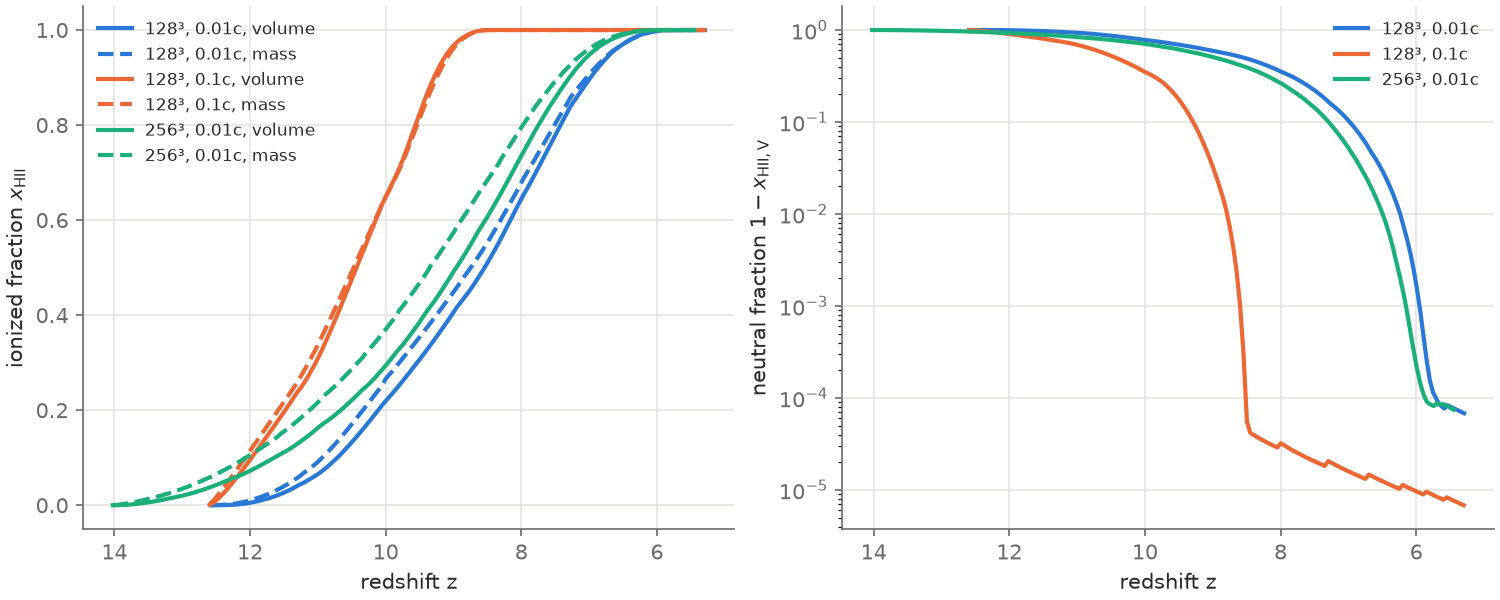
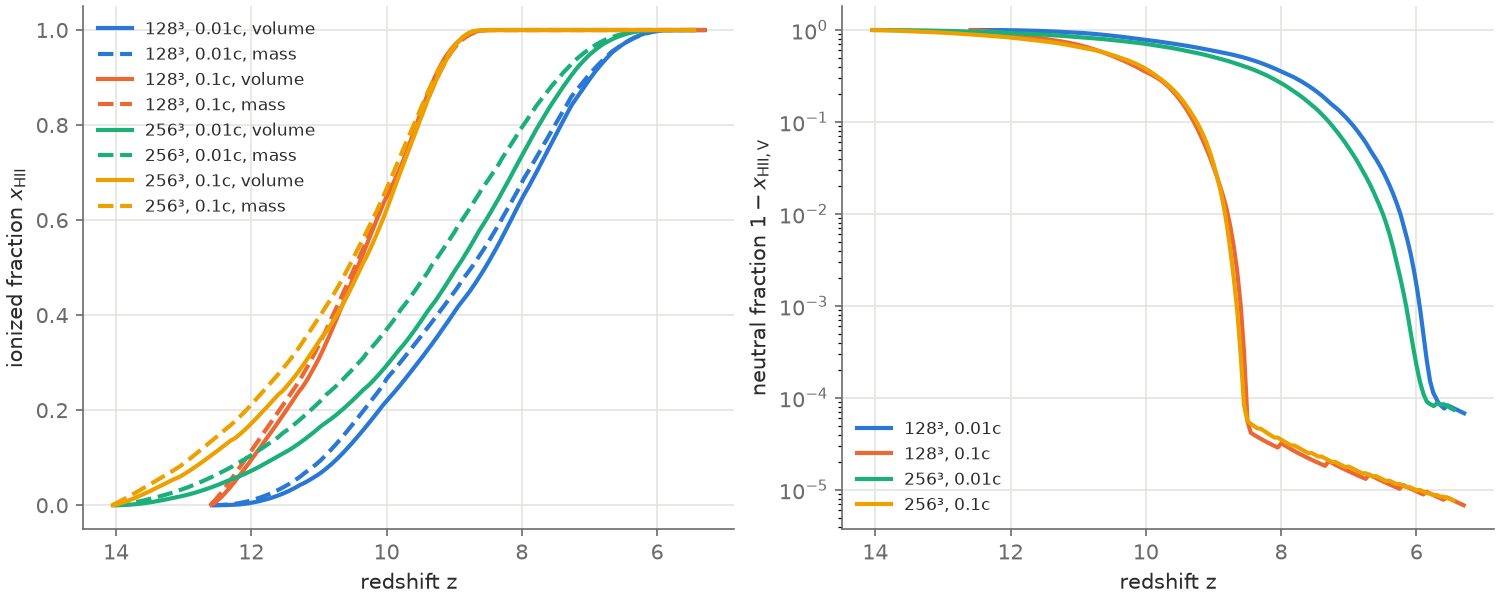
docs/cluster.md: run table, slow-light comparison (128^3 and 256^3, 0.01c vs 0.1c), recommendations; reionization-history figure

diff --git a/docs/cluster.md b/docs/cluster.md
@@ -319,8 +319,119 @@ adds `-ffp-contract=off -fno-fast-math`) in `build-znver4/`:
 
 ## 7. Runs
 
-RUNS_PLACEHOLDER
+All four runs: `tools/production/make_production.py` (10 Mpc/h, Ngas = Ndm = N,
+Zel'dovich ICs at z = 100, seed 7, FoF ≥ 20 particles, the current
+**global SFR source model**, nray_max_factor = 16, `legacy_rt =
+legacy_physics = 0`, `deterministic_parallel`, `rt_substep_carry`, movie
+frames of fHI and T every Δz = 0.05), to z = 5.27 (128³) or 5.43 (256³).
+The two c_reduced values of each N share the ICs. Wall time and peak RSS are
+from `/usr/bin/time -v` (sacct agrees to 1%). The pool guard never acted in
+any run.
+
+| run | node, threads | wall time | RT / hydro / PM / FoF / IO [s] | RT substeps | rays at the end (max) | peak RSS | disk |
+|---|---|---|---|---|---|---|---|
+| 128³, 0.01c (`reion128`) | shared, 32 | **3 min 08 s** | 132 / 9.0 / 3.1 / 1.6 / 26 | 190 (from z = 12.6) | 22.2M (0.66 Nray_max) | 3.46 GB | 36 GB (29 checkpoints kept) |
+| 128³, 0.1c (`reion128_c01`) | shared, 48 | **16 min 18 s** | 923 / 5.5 / 2.5 / 1.3 / 23 | 1900 | 17.1M (0.51) | 3.22 GB | 11 GB |
+| 256³, 0.01c (`reion256`) | shared, 96 | **26 min 17 s** | 889 / 33 / 25 / 25 / 480 | 404 (from z = 13.1) | 157.9M (0.59) | 23.1 GB | 309 GB (checkpoints every 2 steps, all kept) |
+| 256³, 0.1c (`reion256_c01`) | **whole node, 192** | **1 h 32 min** | 5039 / 20 / 21 / 23 / 387 | 4064 | 131.1M (0.49) | 27.0 GB | 51 GB: 25 GB of movie (192 frames), 15.8 GB final checkpoint |
+
+* The first three ran on shared nodes (other jobs on the node), so their
+  times are upper bounds. Even so, the 128³, 0.01c run took 3 minutes against
+  69 minutes on the old 4-core VM.
+* At 256³ the Courant/PM limit binds earlier: 46 hydro steps against 29 at
+  128³. The RT starts at z = 13.1 (first FoF halo at 256³) against 12.6.
+* **Checkpoints dominate the IO at 256³:** 12–17 GB each. With
+  `restart_every = 2` the 0.01c run spent 480 s of its 1577 s writing them.
+  At 0.1c the IO share is 7%.
+* Ray history (256³, 0.1c; step, z, rays): 20, 13.1, 45M; 23, 10.9, 93M;
+  26, 9.4, 120M; 29, 8.3, 126M; 35, 7.0, 125M; 41, 6.0, 130M; 46, 5.4,
+  131M. The population saturates at 0.45–0.5 Nray_max once the box is
+  ionised. At 0.01c it keeps rising, to 0.59 Nray_max at z ≈ 5.9. All the
+  per-step numbers are in `run/timing.txt`.
+
+**Where they are** (`/gscratch/astro/mcquinn/runs/`): each `<run>/run/` holds
+`timing.txt`, `step_NNNN/` (stats and fields at the zdata1 outputs),
+`movie/` (frames and `frames.txt`), `RT/`, `Gas/`, `DM/`, `Pk/`, `Log/`,
+`restart/` and `DONE`, plus `<run>/run.log`. The 256³, 0.1c final checkpoint
+is `reion256_c01/run/restart/checkpoint.bin` (z = 5.43). The 256³, 0.01c
+checkpoints from every second step are in `reion256/run/restart/` (309 GB;
+prune them when they are no longer needed). The scaling checkpoint is
+`reion256/ck_scaling_0030.bin`.
+
+### Slow light: c_reduced = 0.01 against 0.1
+
+`tools/analysis/reion_history.py` (x_HII from `movie/frames.txt`, τ_es with
+HeII following HII and HeIII at z < 3; the code's cosmology):
+
+![reionization histories](figures/hyak_reion_history.png)
+
+| run | weighting | z(10%) | z(25%) | z(50%) | z(75%) | z(90%) | z(99%) | z(99.9%) | tau_es |
+|---|---|---|---|---|---|---|---|---|---|
+| 128³, 0.01c | V | 10.71 | 9.81 | 8.54 | 7.60 | 6.98 | 6.24 | 5.95 | 0.0686 |
+| 128³, 0.01c | M | 10.94 | 10.07 | 8.75 | 7.71 | 7.04 | 6.22 | 5.90 | |
+| 128³, 0.1c | V | 11.98 | 11.24 | 10.43 | 9.69 | 9.29 | 8.79 | 8.60 | 0.0869 |
+| 128³, 0.1c | M | 12.07 | 11.34 | 10.47 | 9.67 | 9.25 | 8.77 | 8.57 | |
+| 256³, 0.01c | V | 11.65 | 10.29 | 8.96 | 7.94 | 7.29 | 6.49 | 6.15 | 0.0761 |
+| 256³, 0.01c | M | 12.06 | 10.75 | 9.35 | 8.20 | 7.45 | 6.55 | 6.16 | |
+| 256³, 0.1c | V | 12.64 | 11.48 | 10.38 | 9.66 | 9.25 | 8.83 | 8.65 | 0.0904 |
+| 256³, 0.1c | M | 12.89 | 11.76 | 10.56 | 9.75 | 9.29 | 8.82 | 8.64 | |
+
+| run | weighting | z = 10 | z = 9 | z = 8 | z = 7.5 | z = 7 | z = 6.5 | z = 6 | z = 5.5 |
+|---|---|---|---|---|---|---|---|---|---|
+| 128³, 0.01c | V | 0.219 | 0.406 | 0.645 | 0.779 | 0.896 | 0.970 | 0.998 | 1.000 |
+| 128³, 0.01c | M | 0.266 | 0.449 | 0.679 | 0.803 | 0.907 | 0.971 | 0.998 | 1.000 |
+| 128³, 0.1c | V | 0.649 | 0.967 | 1.000 | 1.000 | 1.000 | 1.000 | 1.000 | 1.000 |
+| 128³, 0.1c | M | 0.649 | 0.961 | 1.000 | 1.000 | 1.000 | 1.000 | 1.000 | 1.000 |
+| 256³, 0.01c | V | 0.294 | 0.491 | 0.735 | 0.857 | 0.948 | 0.990 | 1.000 | 1.000 |
+| 256³, 0.01c | M | 0.370 | 0.574 | 0.795 | 0.892 | 0.961 | 0.992 | 1.000 | 1.000 |
+| 256³, 0.1c | V | 0.622 | 0.965 | 1.000 | 1.000 | 1.000 | 1.000 | 1.000 | 1.000 |
+| 256³, 0.1c | M | 0.666 | 0.966 | 1.000 | 1.000 | 1.000 | 1.000 | 1.000 | 1.000 |
+
+* **Light travel at 0.01c delays reionization by Δz ≈ 2–2.5.** At 128³,
+  x_HII,V reaches 50% at z = 8.5 instead of 10.4 and 99% at z = 6.2 instead
+  of 8.8. At 256³ the numbers are 9.0 against 10.4 and 6.5 against 8.8.
+  τ_es is 0.069–0.076 at 0.01c and 0.087–0.090 at 0.1c, a 20% bias.
+  docs/production_run.md §1 called this "delayed"; it is a large effect, not
+  a small correction.
+* **The 0.1c histories hardly depend on resolution** (z(50%) = 10.43 at 128³
+  and 10.38 at 256³, the same z(90%)). At 0.01c they differ by 0.4 in z.
+  So at 0.01c the timing is set by the light horizon, not by the sources.
+* The ionized fraction at 0.1c drops from 10% to 99% over Δz ≈ 3.2–3.8; at 0.01c
+  over Δz ≈ 4.5–5.2. The 0.01c x_HII,V also lags x_HII,M by more (light
+  reaches the dense regions near sources first).
+* Whether 0.1c is converged needs a 0.3c or 1c run (at 128³: under an hour
+  or a few hours on a whole node, scaling from the 0.1c run).
+* With the global SFR model both c values reionize too early: τ_es = 0.07–0.09
+  against Planck's 0.054. That is the source calibration (not yet done), not
+  the RT.
 
 ## 8. Recommendations for the next runs
 
-RECS_PLACEHOLDER
+1. **Thread count and node.** Use a **whole node** (`--exclusive -c 192
+   --mem=256G`) with **192 threads at 256³**: RT 94× over one core. At
+   **128³ use 96 threads**: 192 gives the same time, so two 128³ runs can share
+   a node, or one run can share a node with other jobs at 96 cores. Below 128³
+   (512 domains per colour) more than 96 threads does not help. Always
+   `OMP_PLACES=cores OMP_PROC_BIND=close`; `numactl` is not needed.
+2. **Memory:** 128³ needs 4 GB, 256³ 27 GB (the pool guard caps the rays at
+   0.9 Nray_max ≈ 21 GB at 256³). `--mem=64G` covers both. At 256³ the
+   memory is far below the node's 1.5 TB, so 384³ (Nray_max = 0.9 G rays,
+   ≈ 60 GB of rays at 0.75 Nray_max) also fits on one node.
+3. **Cost for planning** (whole node, 192 threads, current source model):
+   128³ 0.01c ≈ 2–3 min, 0.1c ≈ 15 min; 256³ 0.01c ≈ 15–25 min, 0.1c ≈
+   1.5 h, 1c ≈ 15 h (4 × 10⁴ substeps). The RT cost per substep at 256³ is
+   1.2 s at 120–130M rays on 192 threads (5039 s / 4064 substeps).
+4. **c_reduced.** At these costs there is no reason to run 0.01c: it delays
+   reionization by Δz ≈ 2–2.5 (§7). Use **0.1c** at 256³ as the baseline, and
+   check its convergence with one 0.3c or 1c run at 128³.
+5. **Checkpoints:** 16 GB at 256³. Use `restart_every = 4` or more for 0.01c
+   (the run is 25 minutes), and keep `restart_keep_latest = 1` unless a
+   specific checkpoint is needed. The default `--time` is 1 hour: always
+   set it, keep it under the next maintenance window, and chain jobs with
+   `--dependency=afterany`.
+6. **Build:** the default flags. `-march=znver4` gives the same answers and
+   only about 3% (§6).
+7. **Tests on klone:** expect the 8 RT stored-reference failures of §3 until
+   the references are regenerated or the comparison is made platform-
+   independent (a user decision; CLAUDE.md forbids regenerating them on a
+   whim). All live Fortran-vs-C++ comparisons pass byte for byte.
